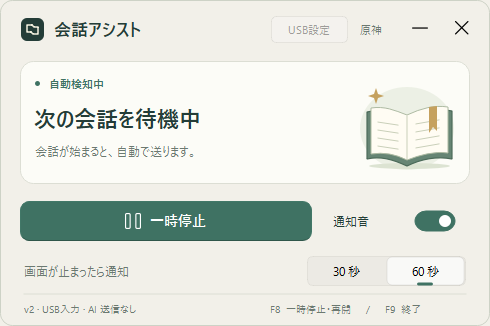
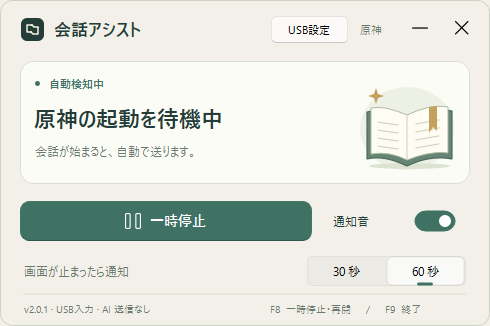
Fix virtual USB bus cleanup on reconnect (v2.0.1)

Changed region(s): [[0.0612, 0.3374, 0.4592, 0.3988], [0.0612, 0.9202, 0.3061, 0.9816], [0.5816, 0.0613, 0.6735, 0.1227]]

diff --git a/test_hid_input.py b/test_hid_input.py
@@ -1,5 +1,6 @@
 """USB transport cleanup and input-isolation tests; no driver or game needed."""
 import ctypes as C
+import os
 import tempfile
 import unittest
 from pathlib import Path
@@ -18,6 +19,9 @@ class FakeLibrary:
         self.closed=[]
         self.fail_release=False
         self.raise_remove=False
+        self.allocated_buses=set()
+        self.removed_buses=[]
+        self.fail_create_bus=False
 
     def NewUSBServer(self, config, out, callback):
         self.address=C.cast(config,C.POINTER(h.USBServerConfig)).contents.addr
@@ -26,6 +30,13 @@ class FakeLibrary:
 
     def CreateUSBBus(self, server, out):
         C.cast(out,C.POINTER(C.c_uint32))[0]=1
+        if self.fail_create_bus or 1 in self.allocated_buses:return False
+        self.allocated_buses.add(1)
+        return True
+
+    def RemoveUSBBus(self, server, bus):
+        self.removed_buses.append(bus.value)
+        self.allocated_buses.remove(bus.value)
         return True
 
     def CreateKeyboardDevice(self, server, out, bus, attach, vid, pid):
@@ -80,6 +91,7 @@ class TransportTests(unittest.TestCase):
         self.keyboard.close();self.keyboard.close()
         self.assertEqual(self.lib.closed,[10])
         self.assertEqual(self.lib.removed,[20])
+        self.assertEqual(self.lib.removed_buses,[1])
 
     def test_device_failure_also_closes_server(self):
         self.keyboard.close()
@@ -87,6 +99,42 @@ class TransportTests(unittest.TestCase):
         self.assertFalse(self.keyboard.try_connect())
         self.assertFalse(self.keyboard.ready)
         self.assertEqual(self.lib.closed,[10,10])
+        self.assertEqual(self.lib.allocated_buses,set())
+
+    def test_reconnect_releases_bus_in_same_library(self):
+        callback=self.keyboard._log_callback
+        for _ in range(4):
+            self.keyboard.close()
+            self.assertEqual(self.lib.allocated_buses,set())
+            self.assertTrue(self.keyboard.try_connect(),self.keyboard.error)
+            self.assertIs(self.keyboard._log_callback,callback)
+
+    def test_failed_keyboard_attach_then_retry_recovers(self):
+        self.keyboard.close()
+        with patch.object(self.lib,'CreateKeyboardDevice',return_value=False):
+            self.assertFalse(self.keyboard.try_connect())
+        self.assertEqual(self.lib.allocated_buses,set())
+        self.assertTrue(self.keyboard.try_connect(),self.keyboard.error)
+
+    def test_failed_bus_creation_does_not_remove_unowned_bus(self):
+        self.keyboard.close()
+        self.lib.removed_buses.clear();self.lib.fail_create_bus=True
+        self.assertFalse(self.keyboard.try_connect())
+        self.assertEqual(self.lib.removed_buses,[])
+
+
+@unittest.skipUnless(os.environ.get('GENSHIN_TEST_USB')=='1',
+                     'Set GENSHIN_TEST_USB=1 for real driver reconnect checks; no keys sent')
+class NativeReconnectTests(unittest.TestCase):
+    def test_same_loaded_dll_reconnects_five_times(self):
+        keyboard=h.VirtualKeyboard()
+        self.addCleanup(keyboard.close)
+        for attempt in range(5):
+            with self.subTest(attempt=attempt):
+                self.assertTrue(keyboard.try_connect(),keyboard.error)
+                self.assertTrue(keyboard.ready)
+                keyboard.close()
+                self.assertFalse(keyboard.ready)
 
 
 class RoutingTests(unittest.TestCase):

diff --git a/hid_input.py b/hid_input.py
@@ -60,6 +60,7 @@ class VirtualKeyboard:
         self.error = ''
         self._log_callback = None
         self._messages = []
+        self._bus_created = False
 
     def connect(self):
         with self.lock:
@@ -75,6 +76,7 @@ class VirtualKeyboard:
                 signatures = {
                     'NewUSBServer': [C.POINTER(USBServerConfig), C.POINTER(C.c_size_t), C.c_void_p],
                     'CreateUSBBus': [C.c_size_t, C.POINTER(C.c_uint32)],
+                    'RemoveUSBBus': [C.c_size_t, C.c_uint32],
                     'CreateKeyboardDevice': [C.c_size_t, C.POINTER(C.c_size_t), C.c_uint32,
                                              C.c_bool, C.c_uint16, C.c_uint16],
                     'SetKeyboardDeviceState': [C.c_size_t, KeyboardState],
@@ -89,7 +91,10 @@ class VirtualKeyboard:
                 if level >= 4:
                     self._messages.append((message or b'').decode('utf-8', errors='replace'))
                     self._messages[:] = self._messages[-8:]
-            self._log_callback = callback_type(record)
+            # Keep the same callback alive across reconnects: the previous
+            # server's shutdown goroutine can log after CloseUSBServer returns.
+            if self._log_callback is None:
+                self._log_callback = callback_type(record)
             # Port 0 allocates an unused port. Native auto-attach uses that actual port.
             config = USBServerConfig(b'127.0.0.1:0', 30000, 5000, 1)
             try:
@@ -97,6 +102,7 @@ class VirtualKeyboard:
                     raise RuntimeError('ローカル入力サーバーを起動できませんでした。')
                 if not self.lib.CreateUSBBus(self.server, C.byref(self.bus)):
                     raise RuntimeError('仮想USBバスを作成できませんでした。')
+                self._bus_created = True
                 # Keep upstream's default identifiers; do not impersonate an installed device.
                 if not self.lib.CreateKeyboardDevice(self.server, C.byref(self.device),
                         self.bus, True, 0, 0):
@@ -157,12 +163,22 @@ class VirtualKeyboard:
                         self.device = C.c_size_t()
             if self.server.value:
                 try:
-                    self.lib.CloseUSBServer(self.server)
+                    # libVIIPER 0.8.1 CloseUSBServer closes only the listener.
+                    # Release the process-wide bus allocation explicitly first,
+                    # including a bus whose keyboard failed to auto-attach.
+                    if self._bus_created:
+                        self.lib.RemoveUSBBus(self.server, self.bus)
                 except Exception as exc:
                     errors.append(str(exc))
                 finally:
-                    self.server = C.c_size_t()
-                    self.bus = C.c_uint32()
+                    try:
+                        self.lib.CloseUSBServer(self.server)
+                    except Exception as exc:
+                        errors.append(str(exc))
+                    finally:
+                        self.server = C.c_size_t()
+                        self.bus = C.c_uint32()
+                        self._bus_created = False
             if errors:
                 self.error = '; '.join(errors)
 

diff --git a/tools/probe_usb_setup.py b/tools/probe_usb_setup.py
@@ -1,0 +1,57 @@
+"""Exercise the actual USB setup button three times; observe-only, no keys sent."""
+import json
+from pathlib import Path
+import sys
+import tempfile
+import time
+
+sys.path.insert(0,str(Path(__file__).resolve().parents[1]))
+from PySide6.QtCore import QTimer
+from PySide6.QtWidgets import QApplication
+from qfluentwidgets import setTheme, setThemeColor, Theme
+import auto_dialogue as a
+from assist_ui import Panel, GREEN
+from hid_input import VirtualKeyboard
+
+
+def main():
+    result_path=Path(sys.argv[1])
+    app=QApplication([])
+    setTheme(Theme.LIGHT);setThemeColor(GREEN)
+    with tempfile.TemporaryDirectory() as directory:
+        a.DATA=Path(directory)
+        keyboard=VirtualKeyboard()
+        if not keyboard.try_connect():raise RuntimeError(keyboard.error)
+        watcher=a.Watcher(observe_only=True,backend=keyboard)
+        panel=Panel(watcher,a.DATA)
+        panel.show_quietly()
+        rounds=[]
+        deadline=time.monotonic()+45
+        started=False
+        def poll():
+            nonlocal started
+            if time.monotonic()>deadline:
+                rounds.append({'ok':False,'error':'setup timeout'})
+                finish();return
+            if not started:
+                started=True;panel.setup_button.click();return
+            if panel.setup_future is None:
+                rounds.append({'ok':keyboard.ready,'error':keyboard.error})
+                if not keyboard.ready or len(rounds)>=3:
+                    finish();return
+                panel.setup_button.click()
+        def finish():
+            timer.stop()
+            result_path.parent.mkdir(parents=True,exist_ok=True)
+            panel.grab().save(str(result_path.with_suffix('.png')))
+            result={'version':a.VERSION,'rounds':rounds,'inputs':watcher.count,
+                    'passed':len(rounds)==3 and all(r['ok'] for r in rounds) and watcher.count==0}
+            result_path.write_text(json.dumps(result,indent=2),encoding='utf-8')
+            panel.close()
+        timer=QTimer();timer.timeout.connect(poll);timer.start(100)
+        app.exec()
+        keyboard.close()
+    return 0 if json.loads(result_path.read_text())['passed'] else 1
+
+
+if __name__=='__main__':sys.exit(main())

diff --git a/assist_ui.py b/assist_ui.py
@@ -137,7 +137,7 @@ class Panel(QWidget):
         for child in self.delay.items.values():
             child.setFixedSize(79,30);setFont(child,12)
         self.delay.setAccessibleName('停止通知までの時間')
-        label(self,'v2 · USB入力 · AI 送信なし',24,300,215,17,10,MUTED)
+        label(self,f'v{watcher.version} · USB入力 · AI 送信なし',24,300,235,17,10,MUTED)
         label(self,'F8  一時停止・再開     /     F9  終了',270,300,208,17,10,MUTED)
         # Controls retain mouse interaction without taking keyboard focus from the game.
         for child in self.findChildren(QWidget):child.setFocusPolicy(Qt.NoFocus)

diff --git a/auto_dialogue.py b/auto_dialogue.py
@@ -19,7 +19,7 @@ import story_clicker as s
 BASE = Path(__file__).resolve().parent
 DATA = Path(os.environ['LOCALAPPDATA']) / 'GenshinDialogue'
 TITLE = '原神 会話アシスト'
-VERSION = '2.0.0'
+VERSION = '2.0.1'
 # Explicit user setting after trying 500 ms and reporting it too slow.
 # A 250 ms target is not a measured game minimum or an evasion claim.
 TAP_PERIOD = .250
@@ -152,6 +152,7 @@ class Watcher:
         self.input_times = deque(maxlen=40)
         self.pause_reason = None
         self.backend = backend
+        self.version = VERSION
         self.setup_in_progress = False
 
     def toggle(self, reason='button'):

diff --git a/README.md b/README.md
@@ -8,13 +8,13 @@ A Windows desktop app that detects dialogue in the Japanese Genshin Impact UI us
 
 ## ダウンロード / Download
 
-[Releases](https://github.com/part676392/genshin-dialogue-assist/releases) から `Genshin-Dialogue-Assist-v2.0.0-windows-x64.zip` を取得します。
+[Releases](https://github.com/part676392/genshin-dialogue-assist/releases) から `Genshin-Dialogue-Assist-v2.0.1-windows-x64.zip` を取得します。
 
 1. ZIPを右クリックして **すべて展開**。`会話アシスト.exe` を起動します。
 2. 初回だけ、右上の **USB設定** を押します。Windowsの管理者確認を許可してください。設定後はWindowsを一度再起動してください。自動では再起動しません。
 3. アプリと原神を起動し、原神を前面にします。会話の検出・入力は自動です。
 
-Download `Genshin-Dialogue-Assist-v2.0.0-windows-x64.zip` from [Releases](https://github.com/part676392/genshin-dialogue-assist/releases).
+Download `Genshin-Dialogue-Assist-v2.0.1-windows-x64.zip` from [Releases](https://github.com/part676392/genshin-dialogue-assist/releases).
 
 1. Right-click the ZIP and **Extract All**. Run `会話アシスト.exe`.
 2. On first use, click **USB設定 / USB setup** at the top right and approve the Windows administrator prompt. Restart Windows once after setup; the app never restarts it automatically.
@@ -57,7 +57,11 @@ v2 creates a separate virtual USB HID keyboard with unmodified **libVIIPER 0.8.1
 | バージョン / Version | 入力方式 / Transport | 初回設定 / Setup |
 |---|---|---|
 | [v1.0.0](https://github.com/part676392/genshin-dialogue-assist/releases/tag/v1.0.0) | Windows SendInput | 追加ドライバーなし / No extra driver |
-| [v2.0.0](https://github.com/part676392/genshin-dialogue-assist/releases/tag/v2.0.0) | Virtual USB HID keyboard | 同梱ドライバー / Bundled driver |
+| [v2.0.1](https://github.com/part676392/genshin-dialogue-assist/releases/tag/v2.0.1) | Virtual USB HID keyboard | 同梱ドライバー / Bundled driver |
+
+**v2.0.1の修正:** v2.0.0では「USB設定」で再接続すると、仮想USBバスの解放漏れにより「仮想USBバスを作成できませんでした」と表示される不具合がありました。管理者権限の問題ではなく、v2.0.1で切断処理を修正しました。画面左下のバージョンで確認できます。
+
+**v2.0.1 fix:** v2.0.0 could fail with “Cannot create virtual USB bus” after reconnecting through USB setup because a bus allocation was not released. This was a teardown bug, not an administrator-permission issue. v2.0.1 fixes cleanup and displays the exact version at the bottom left.
 
 Sunshine/MoonlightでのHoYoverse作品の利用報告はありますが、このv2のドライバー構成をHoYoverseが承認した証拠はありません。物理USB機器と識別不能にする実装ではありません。調査の出典と区別は [入力方式の調査 / Input research](docs/INPUT_RESEARCH.md)、検証範囲は [検証結果 / Validation](docs/VALIDATION.md) に記載しています。
 

diff --git a/docs/VALIDATION.md b/docs/VALIDATION.md
@@ -2,7 +2,30 @@
 
 検証日 / Date: **2026-09-30**
 
-## 確認済み / Verified
+## v2.0.1 再接続修正 / Reconnection fix
+
+v2.0.0で同じプロセスの接続→切断→接続を試すと、1回目だけ成功し、2・3回目は「仮想USBバスを作成できませんでした」となる現象を再現しました。libVIIPER 0.8.1のCloseUSBServerはバスの割り当てを即時に解放しないため、RemoveUSBBusを明示的に呼ぶよう修正しました。
+
+In v2.0.0, a same-process connect/close/connect sequence succeeded once and failed on the second and third attempts with “Cannot create virtual USB bus.” Because libVIIPER 0.8.1 CloseUSBServer does not immediately release bus allocations, v2.0.1 explicitly calls RemoveUSBBus during teardown.
+
+- 同じ実DLL・同じプロセスで5回の接続・切断に成功。 / Five consecutive connect/close cycles passed using the real DLL in one process.
+- 実UIのUSB設定ボタンから3回の再接続に成功。キー送信数は0。 / Three reconnections through the actual UI setup button passed with zero key inputs.
+- 30件のテスト成功（実ドライバーの再接続テスト1件を含む）。 / 30 tests passed, including one real-driver reconnection test.
+- 接続途中の失敗でも作成済みのバスを解放し、作成できていないバスを削除しないことを確認。 / Failed setup releases its owned bus without deleting a bus it did not create.
+
+再現コマンド / Reproduction checks:
+
+```powershell
+$env:GENSHIN_TEST_USB='1'
+.\.venv\Scripts\python.exe -m unittest test_hid_input -v
+.\.venv\Scripts\python.exe tools/probe_usb_setup.py setup-result.json
+```
+
+実ドライバーテストは一時的な仮想キーボードの接続だけを行い、Fは送信しません。ゲーム画像の回帰テストには別途非公開fixturesが必要です。
+
+The real-driver checks connect temporary virtual keyboards but send no F input. Gameplay-image regression tests additionally require the private fixtures.
+
+## v2.0.0で確認した範囲 / Original v2.0.0 verification
 
 - Windows 11 x64、Python 3.13.3、libVIIPER 0.8.1、usbip-win2 0.9.8.1。 / Windows 11 x64, Python 3.13.3, libVIIPER 0.8.1, usbip-win2 0.9.8.1.
 - 同梱USBipインストーラーのSHA-256一致とWindows Authenticode署名Validを確認。通常のWindows管理者起動で導入。 / Verified pinned SHA-256 and a valid Authenticode signature; installed through standard Windows elevation.
